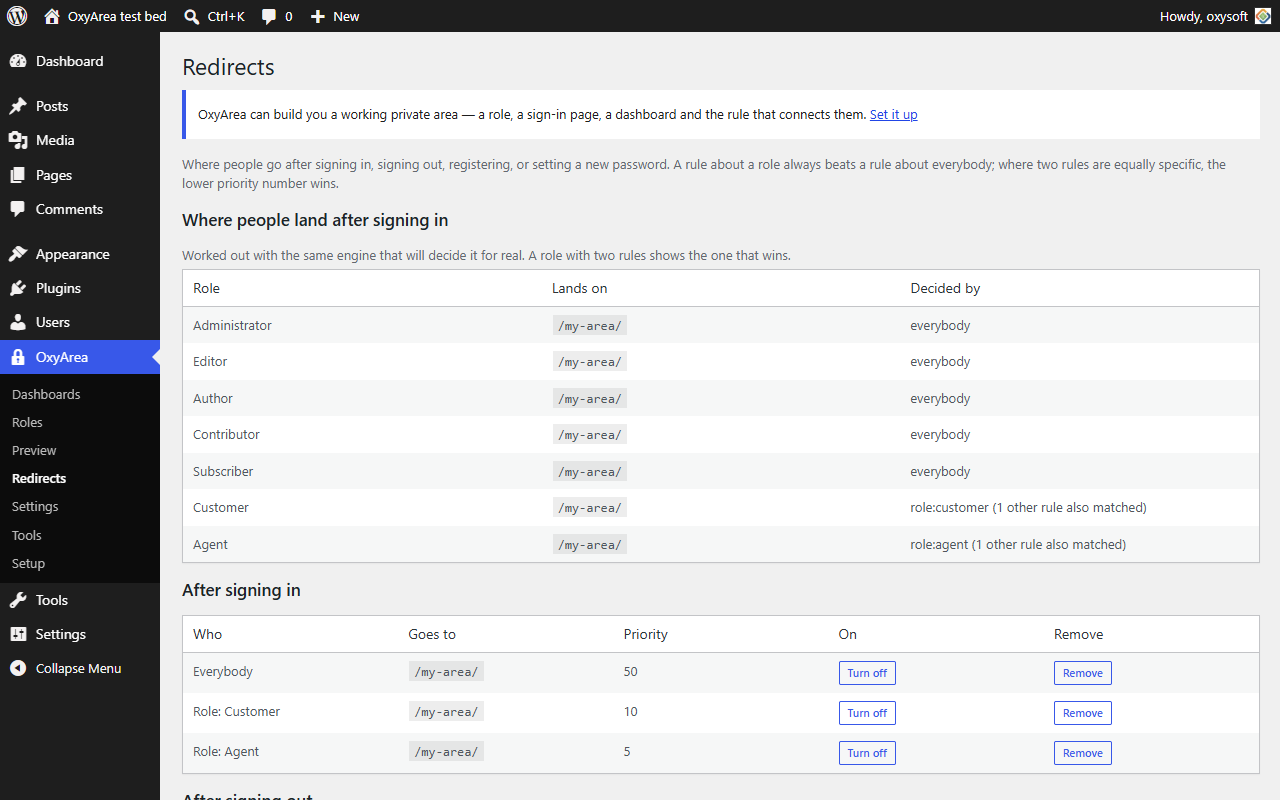
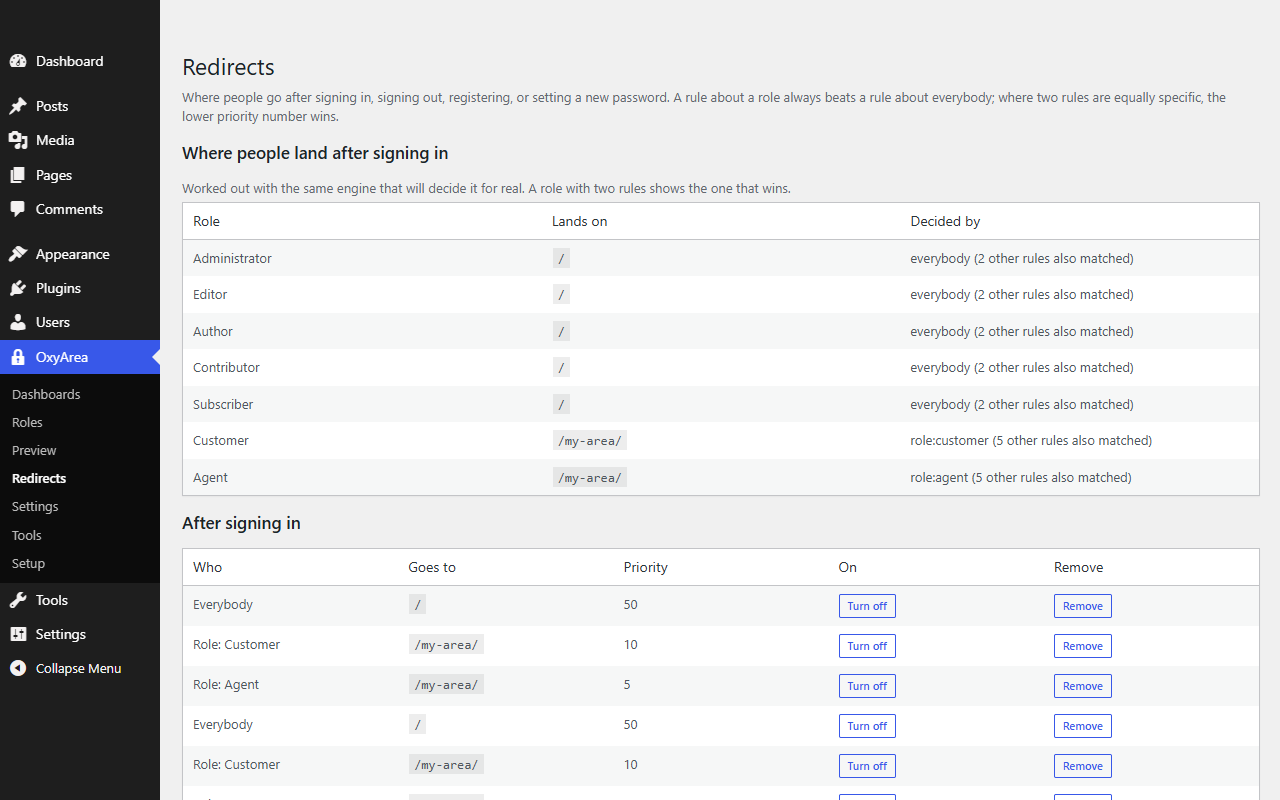
Show the block's title in the editor placeholder, not its slug
It read 'profile-summary' and 'logout' where the block.json says 'Account
summary' and 'Sign out'. The titles are registered server-side and
translated once in PHP; the placeholder now reads them back.

Also the screenshot tooling: a seed that fills the test bed with roles,
rules, dashboards and a restricted post, and a puppeteer script that
photographs seven screens as three different people. Test-bed assets, all
export-ignored.

diff --git a/assets/js/blocks.js b/assets/js/blocks.js
@@ -30,7 +30,11 @@
 	 */
 	function placeholder( note ) {
 		return function ( props ) {
-			var name = props.name.replace( 'oxyarea/', '' );
+			// The title registered from block.json, so the editor shows "Account
+			// summary" rather than "profile-summary". It is translated once, in
+			// PHP, and read back here.
+			var type = blocks.getBlockType( props.name );
+			var name = type && type.title ? type.title : props.name.replace( 'oxyarea/', '' );
 
 			return el(
 				'div',

diff --git a/scripts/testbed-screenshot-seed.php b/scripts/testbed-screenshot-seed.php
@@ -71,12 +71,38 @@ if ( '1' !== (string) getenv( 'OXYAREA_SEED' ) ) {
 	}
 
 	$oxyarea_settings->update( array( 'login_page' => 0 ) );
+	delete_option( 'oxyarea_setup_done' );
 	$oxyarea_dashboards->flush();
 
 	echo "cleared\n";
 
 	return;
 }
+
+// The preview fills the placeholders with the administrator's own details and
+// says so. An administrator with no first name makes "Welcome back, ." — correct
+// behaviour that reads like a defect in a screenshot.
+wp_update_user(
+	array(
+		'ID'           => (int) $oxyarea_admin->ID,
+		'first_name'   => 'Marco',
+		'last_name'    => 'Bianchi',
+		'display_name' => 'Marco Bianchi',
+	)
+);
+
+// The editor's welcome guide is shown once per person and lands in the middle of
+// any screenshot of the editor. Turning it off for this account is a test-bed
+// preference, not a plugin behaviour.
+update_user_meta(
+	(int) $oxyarea_admin->ID,
+	'wp_persisted_preferences',
+	array(
+		'_modified'      => gmdate( 'c' ),
+		'core/edit-post' => array( 'welcomeGuide' => false ),
+		'core'           => array( 'welcomeGuide' => false ),
+	)
+);
 
 // --- roles ------------------------------------------------------------------
 
@@ -185,7 +211,7 @@ oxyarea_seed_dashboard(
 
 // --- redirect rules ---------------------------------------------------------
 
-$oxyarea_rules->save( new RedirectRule( RedirectEvent::LOGIN, null, '/my-area/', 50 ) );
+$oxyarea_rules->save( new RedirectRule( RedirectEvent::LOGIN, null, '/', 50 ) );
 $oxyarea_rules->save( new RedirectRule( RedirectEvent::LOGIN, Subject::role( 'customer' ), '/my-area/', 10 ) );
 $oxyarea_rules->save( new RedirectRule( RedirectEvent::LOGIN, Subject::role( 'agent' ), '/my-area/', 5 ) );
 $oxyarea_rules->save( new RedirectRule( RedirectEvent::LOGOUT, null, '/sign-in/', 10 ) );
@@ -208,6 +234,11 @@ $oxyarea_access->replace_for_resource(
 	ProtectedResource::post( (int) $oxyarea_contract ),
 	array( new Assignment( Subject::role( 'customer' ) ) )
 );
+
+// The wizard's invitation is for a plugin nobody has configured, and these
+// screenshots show one somebody has. Marking it done keeps the notice out of
+// every admin shot.
+update_option( 'oxyarea_setup_done', gmdate( 'c' ), false );
 
 $oxyarea_dashboards->flush();
 
